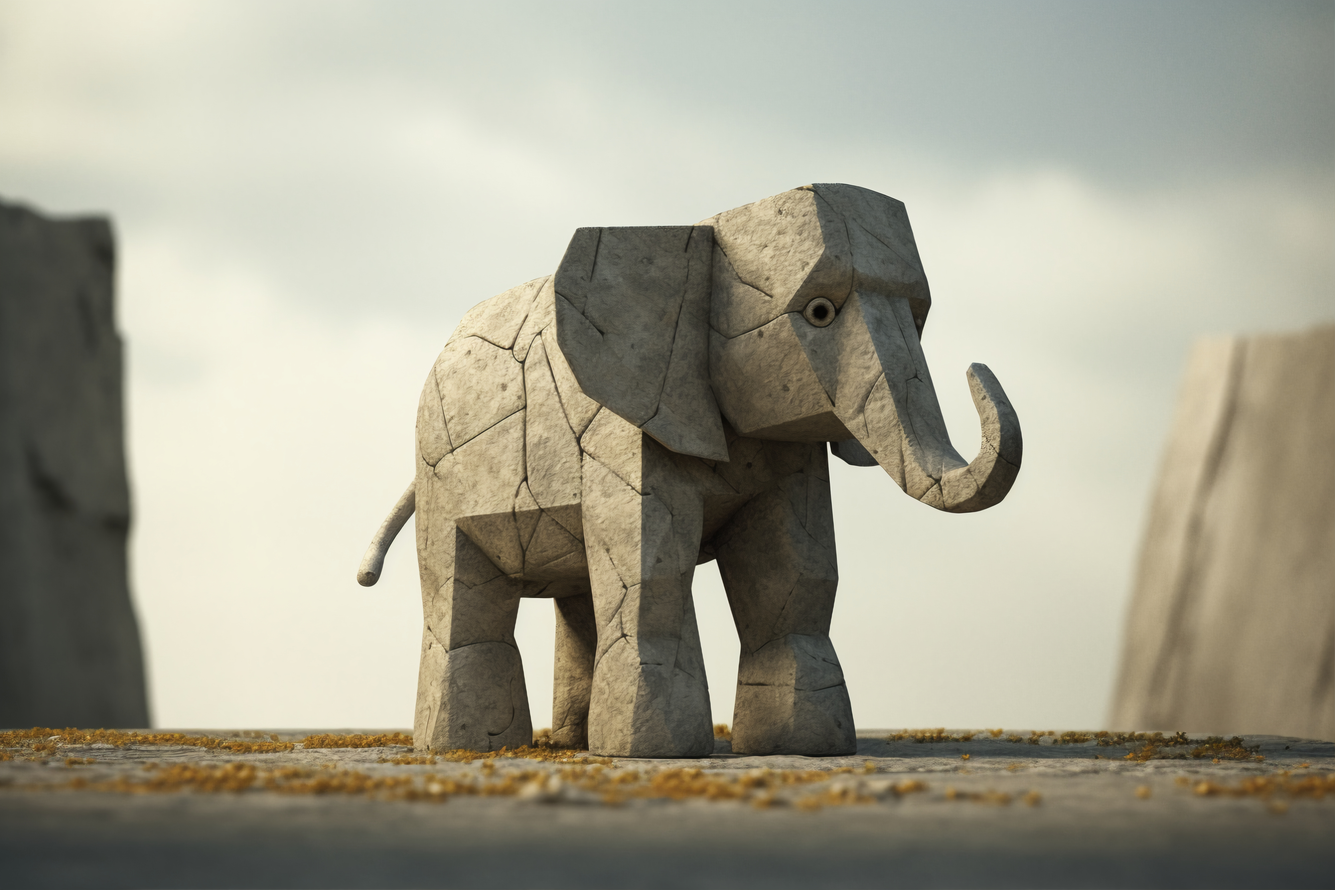
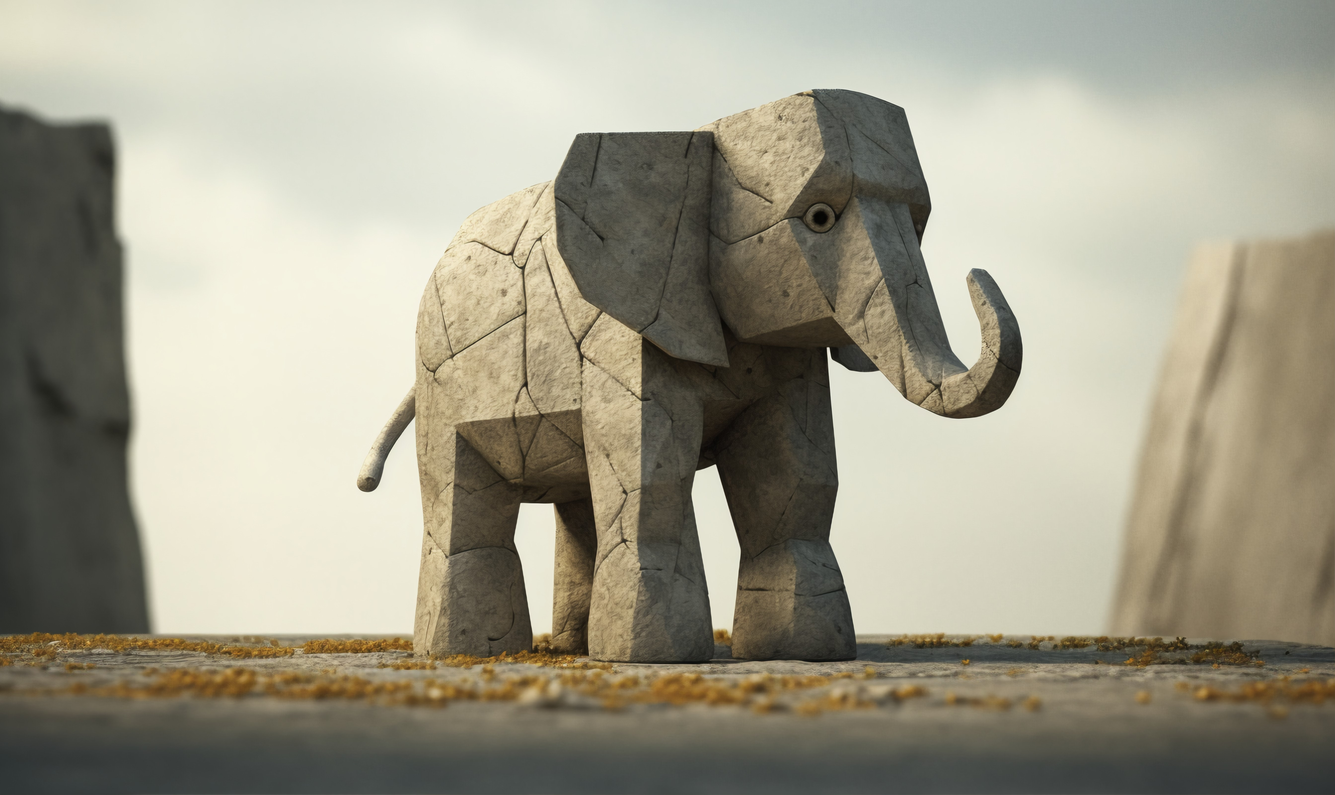
Se agrega inicio de paneles de zoo

diff --git a/Estilos/Paneles.css b/Estilos/Paneles.css
@@ -29,7 +29,6 @@ html, body {
     height: 50px;
 }
 .bienvenida {
-    color: #DDF5C9;
     text-align: center;
     font-family: 'Luckiest Guy', cursive;
     position: absolute;
@@ -38,8 +37,16 @@ html, body {
     transform: translate(-50%, -50%);
     z-index: 1;
 }
-.bienvenida h1{
+#b{
+    top: 90%;
+}
+.bienvenida .usu{
+    color: #DDF5C9;
     font-size: 130px;
+}
+.bienvenida .zoo{
+    color: #FFB800;
+    font-size: 110px;
 }
 .bienvenida hr{
     height: 5px;

diff --git a/Estilos/Principal.css b/Estilos/Principal.css
@@ -35,6 +35,15 @@
 .items{
     display: flex;
 }
+.items_zoo{
+    display: flex;
+}
+.items_zoo a{
+    text-decoration: none;
+    color: #fff;
+    margin: 0 38px;
+    font-size: 20px;
+}
 .items a{
     text-decoration: none;
     color: #fff;

diff --git a/Paneles/ZooCRUD/Inicio.php b/Paneles/ZooCRUD/Inicio.php
@@ -20,15 +20,38 @@
         rel="stylesheet" integrity="sha384-T3c6CoIi6uLrA9TneNEoa7RxnatzjcDSCmG1MXxSR1GAsXEV/Dwwykc2MPK8M2HN" 
         crossorigin="anonymous">
     <link rel="stylesheet" href="../../Estilos/Paneles.css">
+    <link rel="stylesheet" href="../../Estilos/Principal.css">
     <title>Inicio</title>
 </head>
 <body class="body_Usuario">
+    <header>
+        <nav class="Barra_Navegacion">
+            <div class="logotipo">
+                <img src="../../Imagenes/Iconos/tucan.png" alt="Tucan" width="70px" height="70px" >
+                <h1 class="titulo_logotipo">Zoologics</h1>
+            </div>
+            <div class="items_zoo">
+                <a href="Inicio.php">Inicio</a>
+                <a href="">Informacion</a>
+                <a href="Informacion.php">Zoológico</a>
+                <a href="">Animales</a>
+                <a href="">Especies</a>
+                <a href="">Familias</a>
+                <a href="">Informes</a>
+            </div>
+            <div class="botones">
+                <div class="btn_ingresar">
+                    <img src="../../Imagenes/Iconos/cerrar-sesion.png" alt="" width="32px" height="32px">
+                    <a href="../../Index/PaginaPrincipal.php">Cerrar Sesion</a>
+                </div>
+            </div>
+        </nav>
+    </header>
     <div class="panel_usuario">
-        <img src="../../Imagenes/Panel principal usuario/pavo real.jpg" alt="" class="fondo_paneles">
-        <img src="../../Imagenes/Iconos/TresLineasBlancas.png" alt="" class="tresLineas">
-        <div class="bienvenida">
-            <h1 class="usu">BIENVENIDO A ZOOLOGICS</h1>
+        <img src="../../Imagenes/Panel principal zoologico/elefante.jpg" alt="" class="fondo_paneles">
+        <div class="bienvenida" id="b">
             <hr>
+            <h1 class="zoo">BIENVENIDO</h1>
         </div>
     </div>
     <footer>
